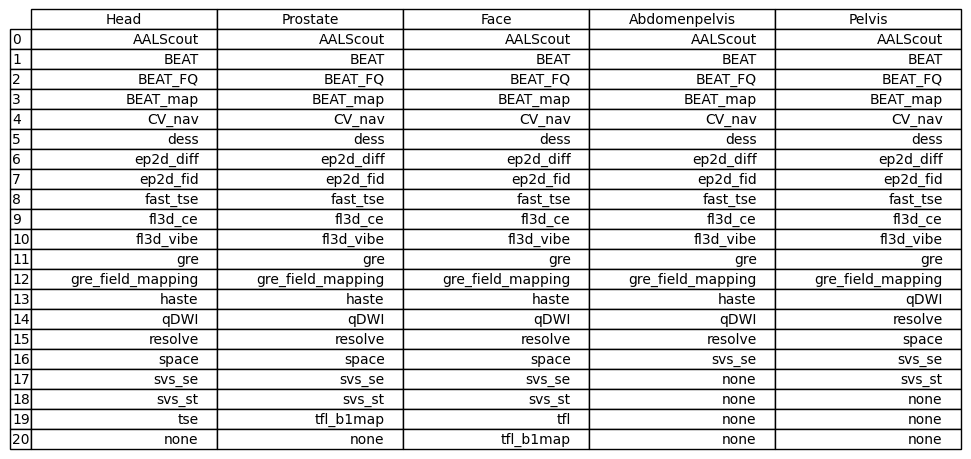
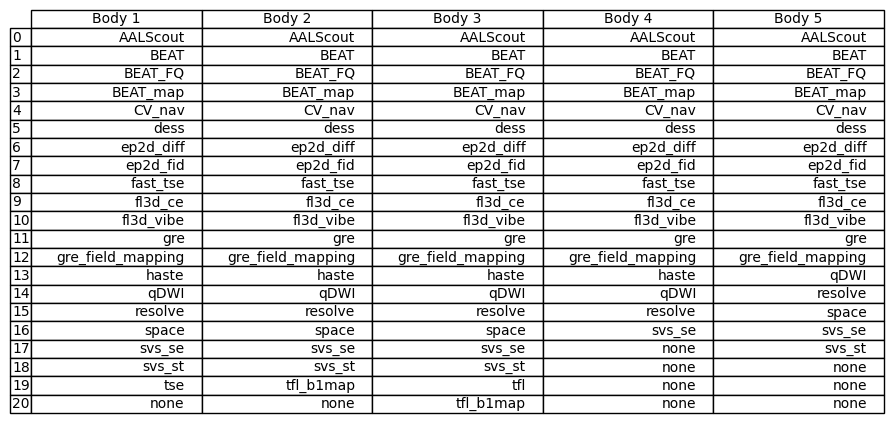
Added Visualisations
For Xmart meeting and ITT Summit

diff --git a/model_results/plotting/table_img.py b/model_results/plotting/table_img.py
@@ -21,11 +21,11 @@ body5_data += ["none"] * (max_length - len(body5_data))
 
 # Create a dataframe
 df = pd.DataFrame({
-    "Head": body1_data,
-    "Prostate": body2_data,
-    "Face": body3_data,
-    "Abdomenpelvis": body4_data,
-    "Pelvis": body5_data
+    "Body 1": body1_data,
+    "Body 2": body2_data,
+    "Body 3": body3_data,
+    "Body 4": body4_data,
+    "Body 5": body5_data
 })
 
 # Plot the table with title
@@ -34,7 +34,7 @@ ax.axis('off')
 tbl = table(ax, df, loc='center', colWidths=[0.2]*len(df.columns))
 tbl.auto_set_font_size(False)
 tbl.set_fontsize(10)
-tbl.scale(1.2, 1.2)  # Adjust the table size if needed
+tbl.scale(1.1, 1.1)  # Adjust the table size if needed
 
 # Save the figure
 plt.savefig('table_image.png', bbox_inches='tight')
